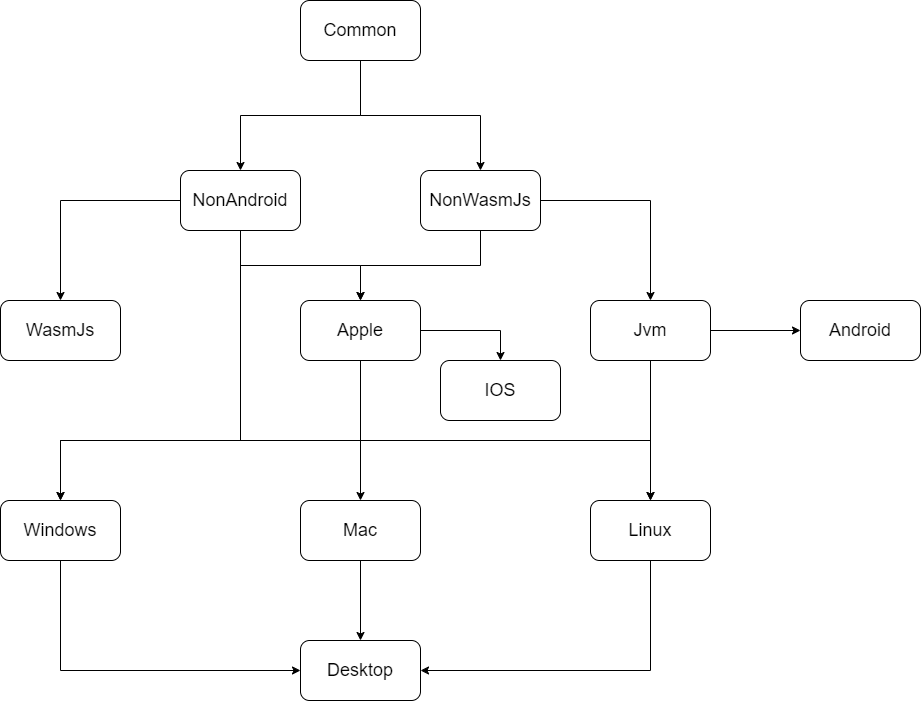
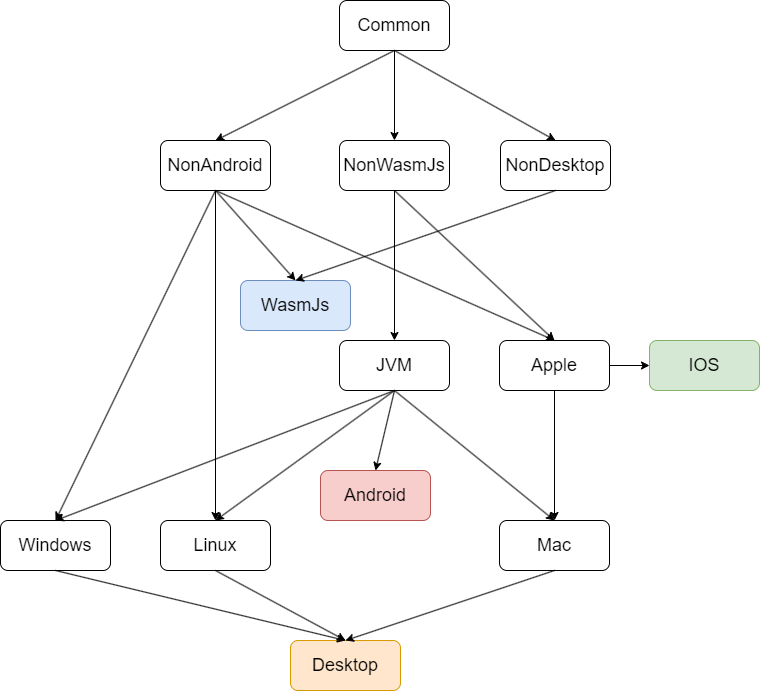
实现MOD文件的导入与更新

diff --git a/ylcs-app/src/commonMain/kotlin/love/yinlin/ui/screen/music/ScreenImportMusic.kt b/ylcs-app/src/commonMain/kotlin/love/yinlin/ui/screen/music/ScreenImportMusic.kt
@@ -6,31 +6,37 @@ import androidx.compose.foundation.layout.*
 import androidx.compose.foundation.lazy.LazyColumn
 import androidx.compose.foundation.lazy.items
 import androidx.compose.material.icons.Icons
-import androidx.compose.material.icons.outlined.*
+import androidx.compose.material.icons.outlined.Add
+import androidx.compose.material.icons.outlined.Check
+import androidx.compose.material.icons.outlined.Preview
+import androidx.compose.material.icons.outlined.Refresh
 import androidx.compose.material3.MaterialTheme
 import androidx.compose.material3.Surface
 import androidx.compose.material3.Text
-import androidx.compose.runtime.Composable
-import androidx.compose.runtime.Stable
-import androidx.compose.runtime.getValue
-import androidx.compose.runtime.mutableStateOf
-import androidx.compose.runtime.setValue
+import androidx.compose.runtime.*
 import androidx.compose.ui.Alignment
 import androidx.compose.ui.Modifier
 import androidx.compose.ui.graphics.Color
 import androidx.compose.ui.text.style.TextAlign
 import androidx.compose.ui.unit.dp
+import io.ktor.utils.io.core.readText
+import kotlinx.io.buffered
+import kotlinx.io.files.Path
+import kotlinx.io.files.SystemFileSystem
 import kotlinx.serialization.Serializable
 import love.yinlin.AppModel
 import love.yinlin.data.Data
 import love.yinlin.data.MimeType
+import love.yinlin.data.music.MusicInfo
+import love.yinlin.data.music.MusicResourceType
 import love.yinlin.extension.fileSizeString
+import love.yinlin.extension.parseJsonValue
 import love.yinlin.mod.ModFactory
-import love.yinlin.platform.ImplicitPath
-import love.yinlin.platform.OS
-import love.yinlin.platform.Picker
-import love.yinlin.platform.UnsupportedPlatformText
+import love.yinlin.platform.*
 import love.yinlin.ui.component.layout.LoadingAnimation
+import love.yinlin.ui.component.platform.DragFlag
+import love.yinlin.ui.component.platform.DropResult
+import love.yinlin.ui.component.platform.dragAndDrop
 import love.yinlin.ui.component.screen.SubScreen
 import love.yinlin.ui.screen.Screen
 
@@ -49,7 +55,7 @@ class ScreenImportMusic(model: AppModel, private val args: Args) : Screen<Screen
         @Stable
         data class Prepare(val path: ImplicitPath) : Step
         @Stable
-        data class Preview(val path: ImplicitPath, val preview: ModFactory.Preview.PreviewItem?) : Step
+        data class Preview(val path: ImplicitPath, val preview: ModFactory.Preview.PreviewResult?) : Step
         @Stable
         data class Processing(val message: String) : Step
     }
@@ -99,6 +105,20 @@ class ScreenImportMusic(model: AppModel, private val args: Args) : Screen<Screen
         }
         when (data) {
             is Data.Success -> {
+                val musicLibrary = app.musicFactory.musicLibrary
+                for (id in data.data.medias) {
+                    val modifierCount = musicLibrary[id]?.modifier ?: 0
+                    val info = Coroutines.io {
+                        try {
+                            val configPath = Path(OS.Storage.musicPath, id, MusicResourceType.Config.defaultFilename)
+                            SystemFileSystem.source(configPath).buffered().use { it.readText().parseJsonValue<MusicInfo>() }!!
+                        }
+                        catch (_: Throwable) {
+                            null
+                        }
+                    }
+                    if (info != null) musicLibrary[id] = info.copy(modifier = modifierCount + 1)
+                }
                 slot.tip.success("解压成功")
                 step = Step.Initial()
             }
@@ -108,7 +128,7 @@ class ScreenImportMusic(model: AppModel, private val args: Args) : Screen<Screen
 
     @Composable
     private fun PreviewList(
-        preview: ModFactory.Preview.PreviewItem,
+        preview: ModFactory.Preview.PreviewResult,
         modifier: Modifier = Modifier
     ) {
         LazyColumn(
@@ -241,7 +261,17 @@ class ScreenImportMusic(model: AppModel, private val args: Args) : Screen<Screen
             slot = slot
         ) {
             Box(
-                modifier = Modifier.fillMaxSize(),
+                modifier = Modifier.fillMaxSize().dragAndDrop(
+                    enabled = step is Step.Initial || step is Step.Prepare,
+                    flag = DragFlag.FILE,
+                    onDrop = {
+                        val files = (it as? DropResult.File)?.path
+                        if (files != null) {
+                            if (files.size == 1) step = Step.Prepare(NormalPath(files[0].toString()))
+                            else slot.tip.warning("最多一次只能导入一个MOD")
+                        }
+                    }
+                ),
                 contentAlignment = Alignment.Center
             ) {
                 when (val currentStep = step) {

diff --git a/ylcs-music/src/commonMain/kotlin/love/yinlin/mod/ModFactory.kt b/ylcs-music/src/commonMain/kotlin/love/yinlin/mod/ModFactory.kt
@@ -129,6 +129,12 @@ object ModFactory {
         source: Source,
         private val savePath: Path
     ): BaseRelease(source) {
+        @Stable
+        data class ReleaseResult(
+            val metadata: ModMetadata,
+            val medias: List<String>
+        )
+
         private suspend fun Source.readResource(mediaPath: Path) = Coroutines.io {
             val resType = readInt() // 读资源类型
             require(MusicResourceType.fromInt(resType) != null) { "不支持的资源类型 $resType" }
@@ -159,15 +165,17 @@ object ModFactory {
             id
         }
 
-        suspend fun process(onProcess: (Int, Int, String) -> Unit): Data<ModMetadata> = try {
+        suspend fun process(onProcess: (Int, Int, String) -> Unit): Data<ReleaseResult> = try {
             val metadata = source.readMetadata()
+            val ids = mutableListOf<String>()
             repeat(metadata.mediaNum) { index ->
                 val id = source.readMedia()
+                ids += id
                 Coroutines.main {
                     onProcess(index, metadata.mediaNum, id)
                 }
             }
-            Data.Success(metadata)
+            Data.Success(ReleaseResult(metadata, ids))
         } catch (e: Throwable) {
             Data.Error(throwable = e)
         }
@@ -190,7 +198,7 @@ object ModFactory {
         )
 
         @Stable
-        data class PreviewItem(
+        data class PreviewResult(
             val metadata: ModMetadata,
             val medias: List<MediaItem>
         )
@@ -229,13 +237,13 @@ object ModFactory {
             MediaItem(id, mainConfig, resources)
         }
 
-        suspend fun process(): Data<PreviewItem> = try {
+        suspend fun process(): Data<PreviewResult> = try {
             val metadata = source.readMetadata()
             val medias = mutableListOf<MediaItem>()
             repeat(metadata.mediaNum) { index ->
                 medias += source.previewMedia()
             }
-            Data.Success(PreviewItem(metadata, medias))
+            Data.Success(PreviewResult(metadata, medias))
         } catch (e: Throwable) {
             Data.Error(throwable = e)
         }

diff --git a/ylcs-app/src/desktopMain/kotlin/love/yinlin/ui/component/platform/DragAndDrop.kt b/ylcs-app/src/desktopMain/kotlin/love/yinlin/ui/component/platform/DragAndDrop.kt
@@ -1,0 +1,43 @@
+package love.yinlin.ui.component.platform
+
+import androidx.compose.foundation.draganddrop.dragAndDropTarget
+import androidx.compose.runtime.Composable
+import androidx.compose.runtime.remember
+import androidx.compose.ui.ExperimentalComposeUiApi
+import androidx.compose.ui.Modifier
+import androidx.compose.ui.draganddrop.DragAndDropEvent
+import androidx.compose.ui.draganddrop.DragAndDropTarget
+import androidx.compose.ui.draganddrop.awtTransferable
+import kotlinx.io.files.Path
+import java.awt.datatransfer.DataFlavor
+import java.io.File
+
+@OptIn(ExperimentalComposeUiApi::class)
+@Composable
+actual fun Modifier.dragAndDrop(
+    enabled: Boolean,
+    flag: Int,
+    onDrop: (DropResult) -> Unit
+): Modifier = if (enabled) this.dragAndDropTarget(
+    shouldStartDragAndDrop = {
+        val transferable = it.awtTransferable
+        val acceptText = transferable.isDataFlavorSupported(DataFlavor.stringFlavor)
+        val acceptFile = transferable.isDataFlavorSupported(DataFlavor.javaFileListFlavor)
+        (acceptText && (flag and DragFlag.TEXT == DragFlag.TEXT)) ||
+                (acceptFile && (flag and DragFlag.FILE == DragFlag.FILE))
+    },
+    target = remember(onDrop) { object : DragAndDropTarget {
+        override fun onDrop(event: DragAndDropEvent): Boolean {
+            val transferable = event.awtTransferable
+            if (transferable.isDataFlavorSupported(DataFlavor.javaFileListFlavor)) {
+                val list = transferable.getTransferData(DataFlavor.javaFileListFlavor) as List<*>
+                onDrop(DropResult.File(list.map { Path((it as File).absolutePath) }))
+            }
+            else if (transferable.isDataFlavorSupported(DataFlavor.stringFlavor)) {
+                val text = transferable.getTransferData(DataFlavor.stringFlavor) as String
+                onDrop(DropResult.Text(text))
+            }
+            return false
+        }
+    } }
+) else this

diff --git a/ylcs-modManager/src/jvmMain/kotlin/love/yinlin/mod/ModManager.kt b/ylcs-modManager/src/jvmMain/kotlin/love/yinlin/mod/ModManager.kt
@@ -103,16 +103,14 @@ private fun DragTextField(
             shouldStartDragAndDrop = {
                 it.awtTransferable.isDataFlavorSupported(DataFlavor.javaFileListFlavor)
             },
-            target = remember {
-                object : DragAndDropTarget {
-                    override fun onDrop(event: DragAndDropEvent): Boolean {
-                        val list = event.awtTransferable.getTransferData(DataFlavor.javaFileListFlavor) as List<*>
-                        val newValue = list.map { (it as File).toString() }.fastJoinToString("\n")
-                        onValueChange(newValue)
-                        return true
-                    }
+            target = remember { object : DragAndDropTarget {
+                override fun onDrop(event: DragAndDropEvent): Boolean {
+                    val list = event.awtTransferable.getTransferData(DataFlavor.javaFileListFlavor) as List<*>
+                    val newValue = list.map { (it as File).toString() }.fastJoinToString("\n")
+                    onValueChange(newValue)
+                    return true
                 }
-            }
+            } }
         )
     )
 }
@@ -290,7 +288,7 @@ private fun ReleaseUI(
 
 @Composable
 private fun ModPreview(
-    preview: ModFactory.Preview.PreviewItem,
+    preview: ModFactory.Preview.PreviewResult,
     modifier: Modifier = Modifier
 ) {
     LazyColumn(
@@ -378,7 +376,7 @@ private fun PreviewUI(
     val scope = rememberCoroutineScope()
     var status: Status by remember { mutableStateOf(Status.Idle) }
     var input by remember { mutableStateOf("") }
-    var preview: ModFactory.Preview.PreviewItem? by remember { mutableStateOf(null) }
+    var preview: ModFactory.Preview.PreviewResult? by remember { mutableStateOf(null) }
 
     val reset = {
         status = Status.Idle

diff --git a/ylcs-app/src/commonMain/kotlin/love/yinlin/ui/screen/music/ScreenMusicLibrary.kt b/ylcs-app/src/commonMain/kotlin/love/yinlin/ui/screen/music/ScreenMusicLibrary.kt
@@ -123,7 +123,6 @@ class ScreenMusicLibrary(model: AppModel) : Screen<ScreenMusicLibrary.Args>(mode
 
     private val isManaging by derivedStateOf { library.any { it.selected } }
     private var isSearching by mutableStateOf(false)
-        private set
 
     private val searchDialog = DialogInput(
         hint = "歌曲名",
@@ -248,7 +247,11 @@ class ScreenMusicLibrary(model: AppModel) : Screen<ScreenMusicLibrary.Args>(mode
                 }
                 else {
                     Action(Icons.Outlined.Add) {
-                        navigate(ScreenImportMusic.Args(null))
+                        if (app.musicFactory.isReady) slot.tip.warning("导入MOD需要先停止播放器")
+                        else {
+                            pop()
+                            navigate(ScreenImportMusic.Args(null))
+                        }
                     }
                     ActionSuspend(if (isSearching) Icons.Outlined.Close else Icons.Outlined.Search) {
                         if (isSearching) closeSearch()

diff --git a/ylcs-app/src/commonMain/kotlin/love/yinlin/ui/component/platform/DragAndDrop.kt b/ylcs-app/src/commonMain/kotlin/love/yinlin/ui/component/platform/DragAndDrop.kt
@@ -1,0 +1,22 @@
+package love.yinlin.ui.component.platform
+
+import androidx.compose.runtime.Composable
+import androidx.compose.ui.Modifier
+import kotlinx.io.files.Path
+
+object DragFlag {
+    const val FILE = 1
+    const val TEXT = 2
+}
+
+sealed interface DropResult {
+    data class File(val path: List<Path>) : DropResult
+    data class Text(val text: String) : DropResult
+}
+
+@Composable
+expect fun Modifier.dragAndDrop(
+    enabled: Boolean,
+    flag: Int,
+    onDrop: (DropResult) -> Unit
+): Modifier

diff --git a/ylcs-app/src/nonDesktopMain/kotlin/love/yinlin/ui/component/platform/DragAndDrop.kt b/ylcs-app/src/nonDesktopMain/kotlin/love/yinlin/ui/component/platform/DragAndDrop.kt
@@ -1,0 +1,11 @@
+package love.yinlin.ui.component.platform
+
+import androidx.compose.runtime.Composable
+import androidx.compose.ui.Modifier
+
+@Composable
+actual fun Modifier.dragAndDrop(
+    enabled: Boolean,
+    flag: Int,
+    onDrop: (DropResult) -> Unit
+): Modifier = this
